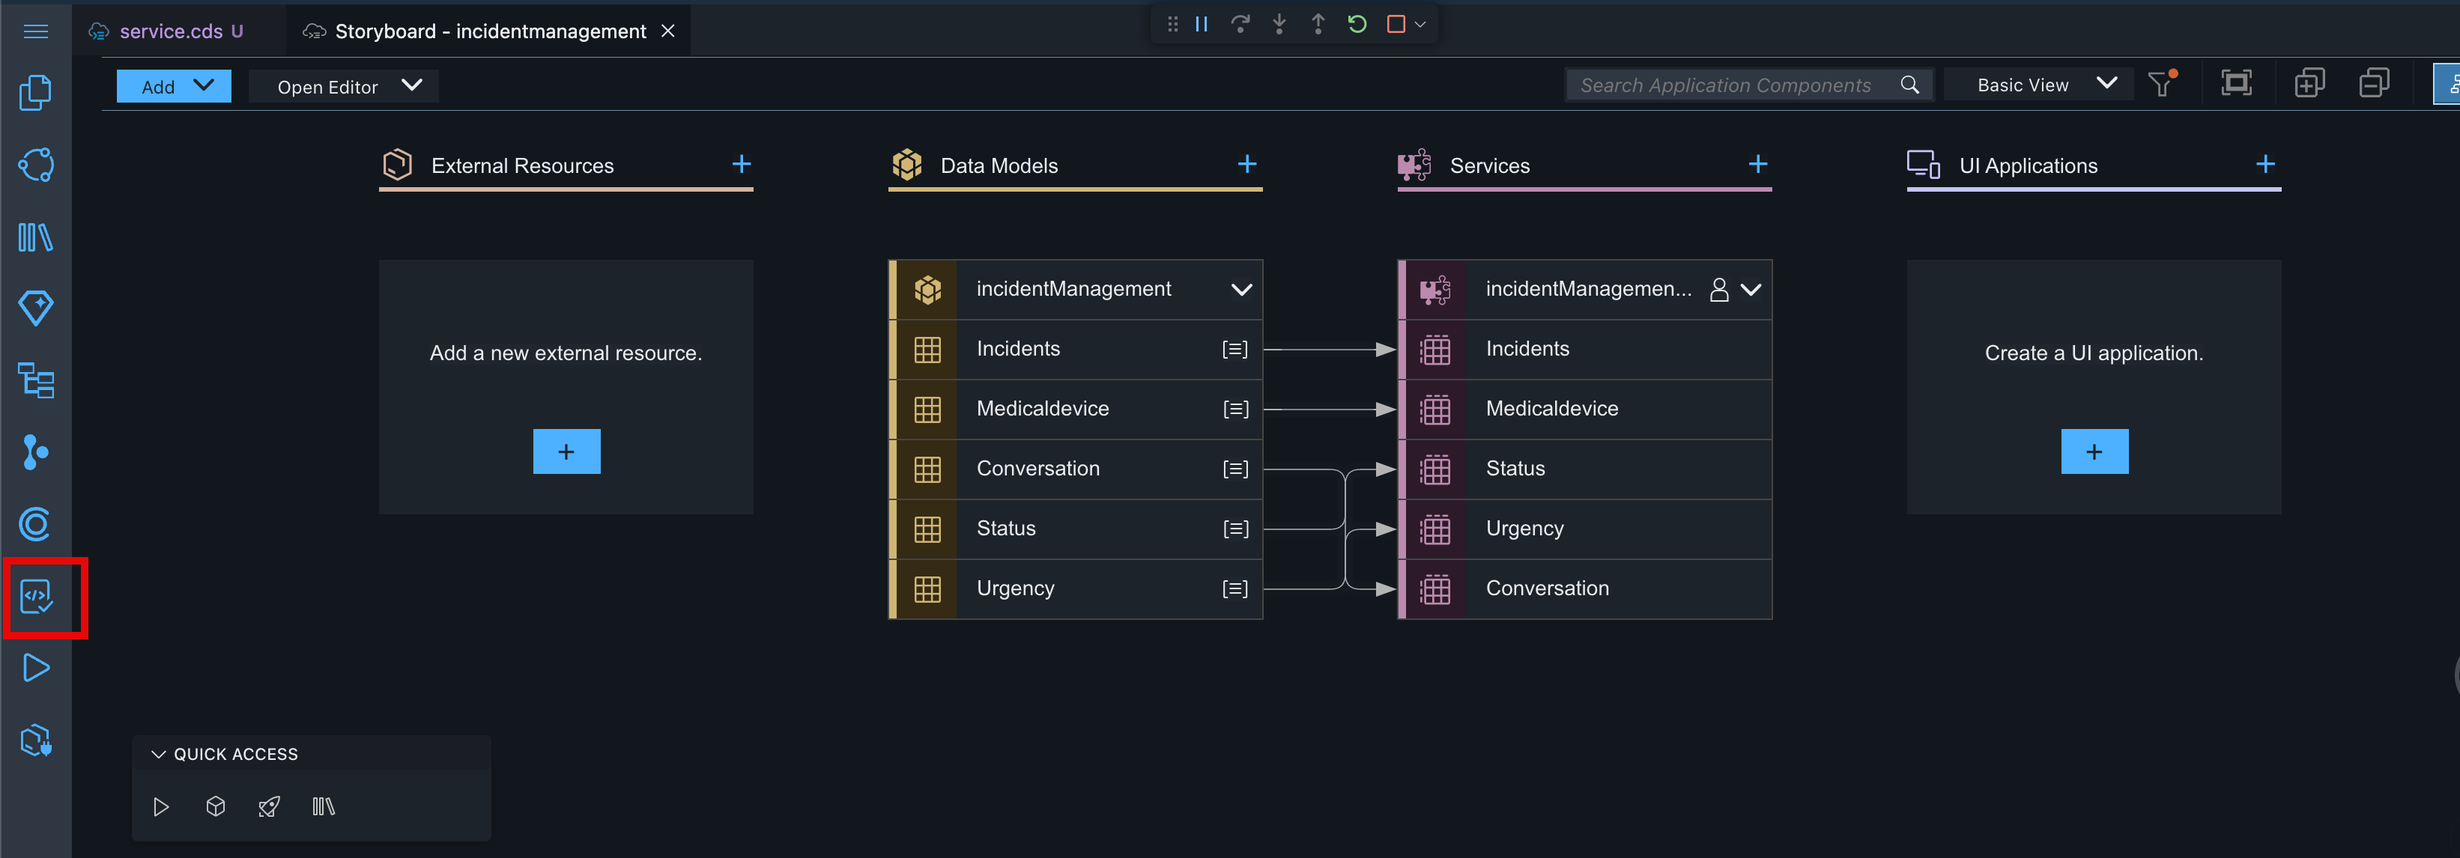
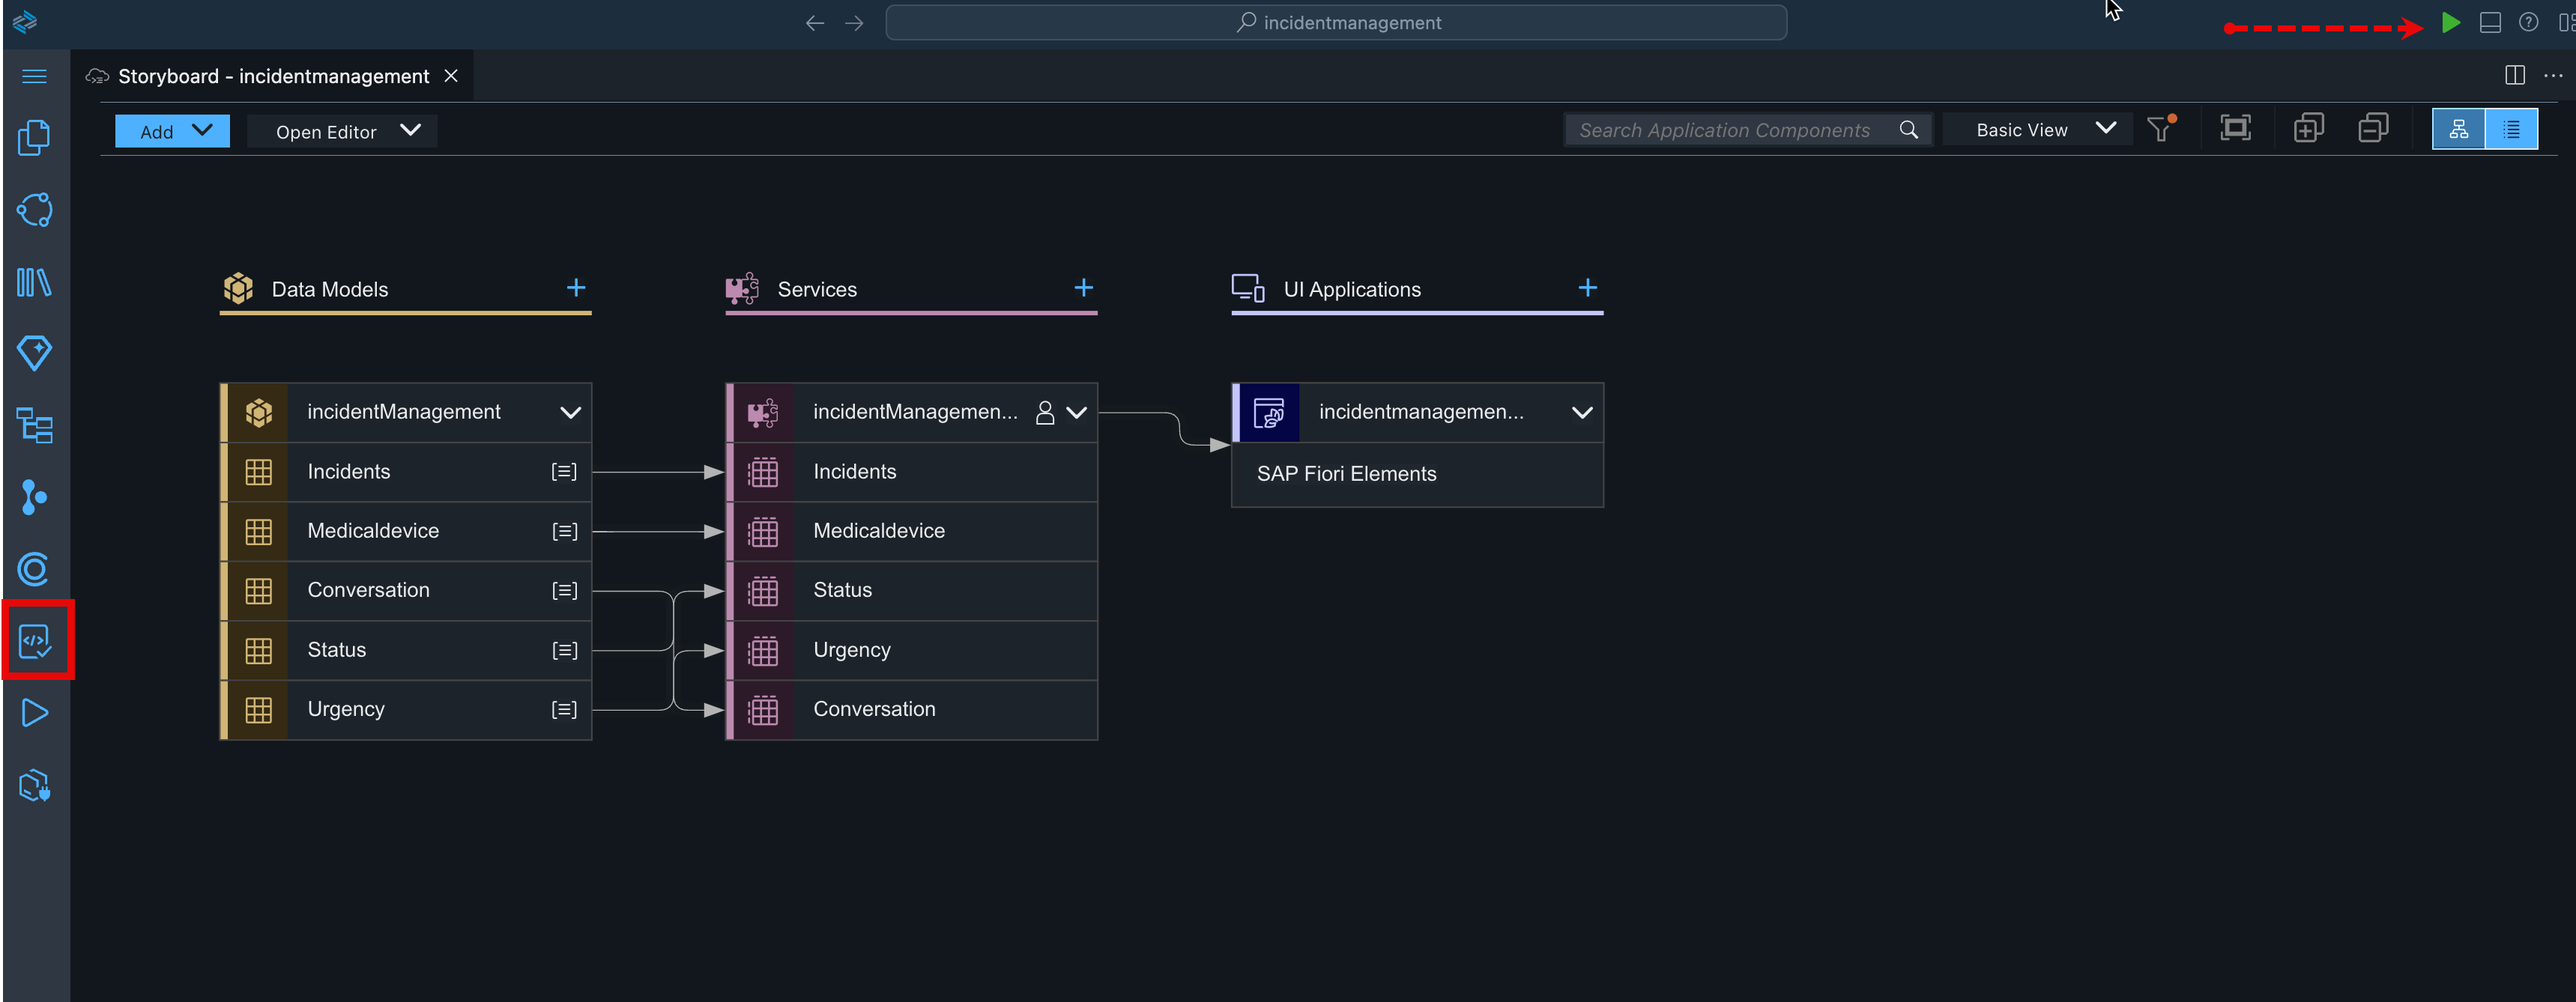
build code

diff --git a/documentation/buildcode/ui/README.md b/documentation/buildcode/ui/README.md
@@ -1,0 +1,44 @@
+# Add UI to the Incident Management Application
+
+To display and test the content we created for the incident management program, we need to create an SAP Fiori elements UI.
+
+1. Go to back to the **Storyboard** and add a UI application.
+
+![](./images/storyboard.png)
+
+2. We will start with the user interface for the **Incidents** data entity.Set the Display name to **Incidents** and the Description to **Incident Management**, and then choose **Next**.
+
+![](./images/adduimodule.png)
+
+3. We are using the browser, so we will select **Template-Based Responsive Application** as the UI Application type, and click **Next**.
+
+![](./images/adduitype.png)
+
+4. Select **List Report Page** as the UI application template, and click **Next**.
+
+![](./images/listreport.png)
+
+5. Select **Incidents** as the Main entity, and click **Finish**. The page will be created now.
+
+![](./images/dataobject.png)
+
+6. To preview your application, once the files have been generated, go to the upper-right corner, and **click preview (Run and Debug)**.
+
+![](./images/run.png)
+
+7. The application’s preview is displayed.
+
+![](./images/apppreview.png)
+
+8. Choose Web application **Incidents** and you will see the list view.
+
+![](./images/inicidentlist.png)
+
+9. Choose any incident and view the object page.
+
+![](./images/incidentdata.png)
+
+10. You can also see the service for all entity as well. Below is the snapshot for **Medicaldevic** service.
+
+![](./images/medical.png)
+

diff --git a/documentation/buildcode/setup/README.md b/documentation/buildcode/setup/README.md
@@ -10,32 +10,32 @@ You have an SAP BTP Trial account.
 
 2. In the navigation pane, click **Boosters** and Search for **SAP Build Code**.
 
-[](./imagesfindbooster.png)
+![](./imagesfindbooster.png)
 
 > There is a booster for each of the SAP Build Code service plans. Make sure to select the one relevant to the plan you want to work in.
 
 3. Open the booster to see the overview, components, and additional resources, and click **Start**.
 
-[](./images/startbooster.png)
+![](./images/startbooster.png)
 
 > The booster checks for required authorizations, compatible providers, and regions, as prerequisites for successful execution.
 
 4. After running the booster, in the popup window, click **Navigate to Subaccount**.
 
-[](./images/navigate.png)
+![](./images/navigate.png)
 
 ## Verify Subscription
 
 1. From the navigation pane, select **Services > Instances and Subscriptions**.
 
-[](./images/instance.png)
+![](./images/instance.png)
 
 2. Make sure you are subscribed to SAP Business Application Studio and to SAP Build Code.
 
-[](./images/subscription.png)
+![](./images/subscription.png)
 
 3. Click **SAP Build Code**. The SAP Build lobby opens.
 
-[](./images/lobby.png)
+![](./images/lobby.png)
 
 [Next: Introduction and Create Project](../intro/README.md)

diff --git a/documentation/buildcode/deploy/README.md b/documentation/buildcode/deploy/README.md
@@ -1,6 +1,8 @@
-# Deploy the application using Single-Click Deployment
+# Deploy the Application Using One Click Deployment
 
 The last step in SAP Build Code is to deploy the application to Cloud Foundry. This includes also that destinations are created automatically that the ODATA services can be consumed also by other tools like SAP Build Apps.
+
+## 1. Deploy the Application.
 
 1. For the deployment go to **Task Explorer** .
 
@@ -18,9 +20,25 @@ The last step in SAP Build Code is to deploy the application to Cloud Foundry. T
 
 ![](./images/cflogin.png)
 
-5. After the successful deployment you will find the link of the deployed application in the terminal. copy the link to try it out!
+5. After the successful deployment you will find the link of the **deployed application service url** in the terminal. copy the link to try it out!
+> This url is very important as you have to configure the destination later to integrate CAP service with Build Apps.
 
 ![](./images/deployedapp.png)
+
+## 2. Open the Deployed Web Application.
+
+1. Goto subaccount and choose **HTML5 Applications**. You will see the incident application. 
+
+![](./images/webapp.png)
+
+2. click to open.
+
+![](./images/deployedurl.png)
+
+
+
+
+
 
 
 

diff --git a/documentation/buildcode/Readme.md b/documentation/buildcode/Readme.md
@@ -7,6 +7,6 @@
 4. [Enhance the Sample Data Using Joule](./sampledata/README.md)
 5. [Create Application Logic with Joule](./applogic/README.md)
 6. [Adapt the Service Domain](./service/README.md)
-7. [Test Service locally](./localtest/README.md)
-7. [Deploy the application using Single-Click Deployment](./deploy/README.md)
+7. [Add UI to the Application](./ui/README.md)
+8. [Deploy the application using single click deployment](./deploy/README.md)
 

diff --git a/documentation/buildcode/dataentity/README.md b/documentation/buildcode/dataentity/README.md
@@ -33,5 +33,5 @@ Once you accept the code, you will see the update on the right side in the Story
 
 > **Tip**: To open the Storyboard, navigate to the **Project Explorer**, expand your project, and select **Storyboard**.
 
- [Next Adapt Schema with Graphical Modeler](../changes/README.md)
+ [Next: Adapt Schema with Graphical Modeler](../changes/README.md)
 

diff --git a/documentation/buildcode/service/README.md b/documentation/buildcode/service/README.md
@@ -57,6 +57,6 @@ This will project a conversation entity and establish a composition relationship
 
 ![](./images/finalconversation.png)
 
-[Next: Test Service locally](../localtest/README.md)
+[Next: Add UI to the Incident Management Application](../deploy/README.md)
 
 
